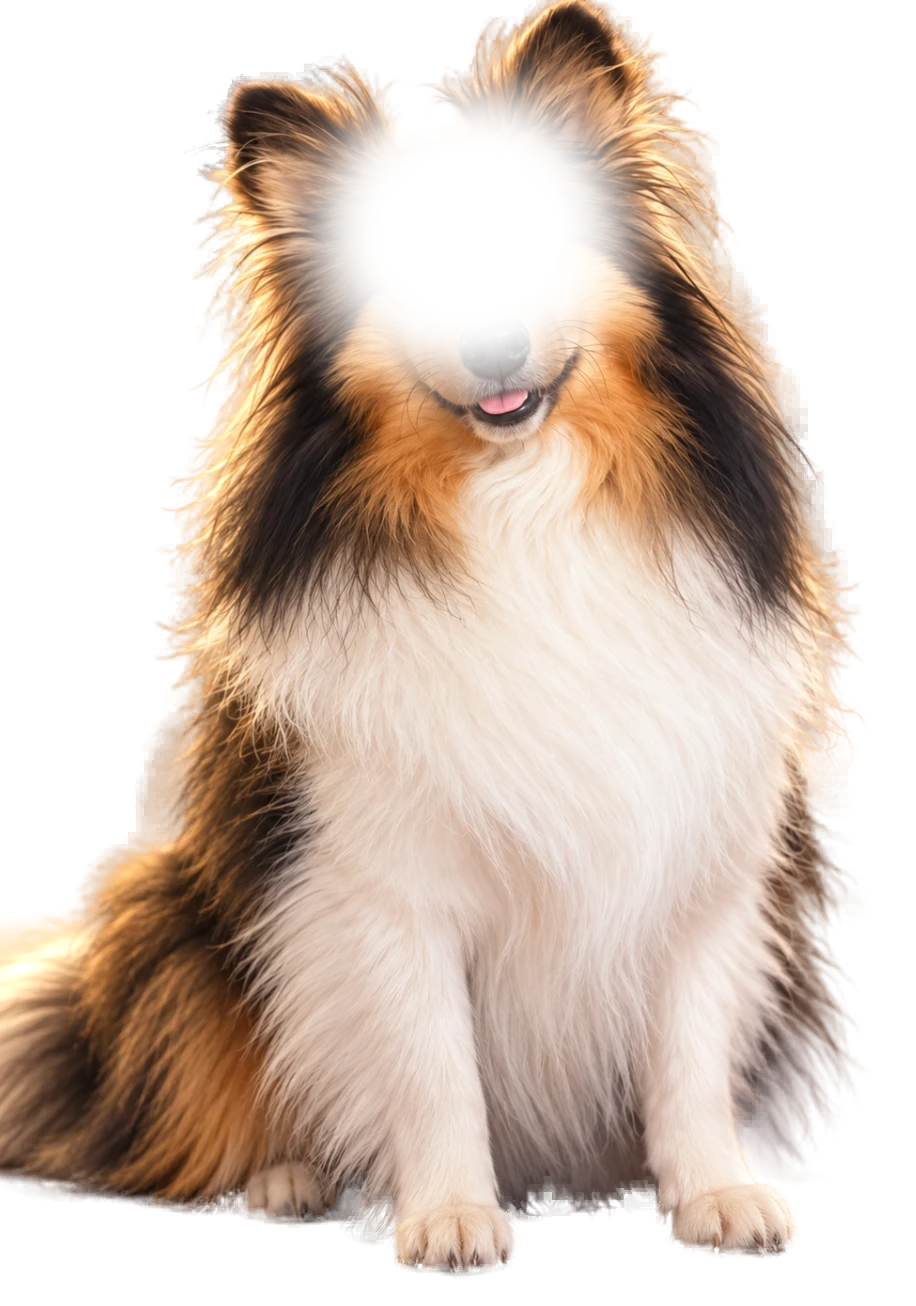
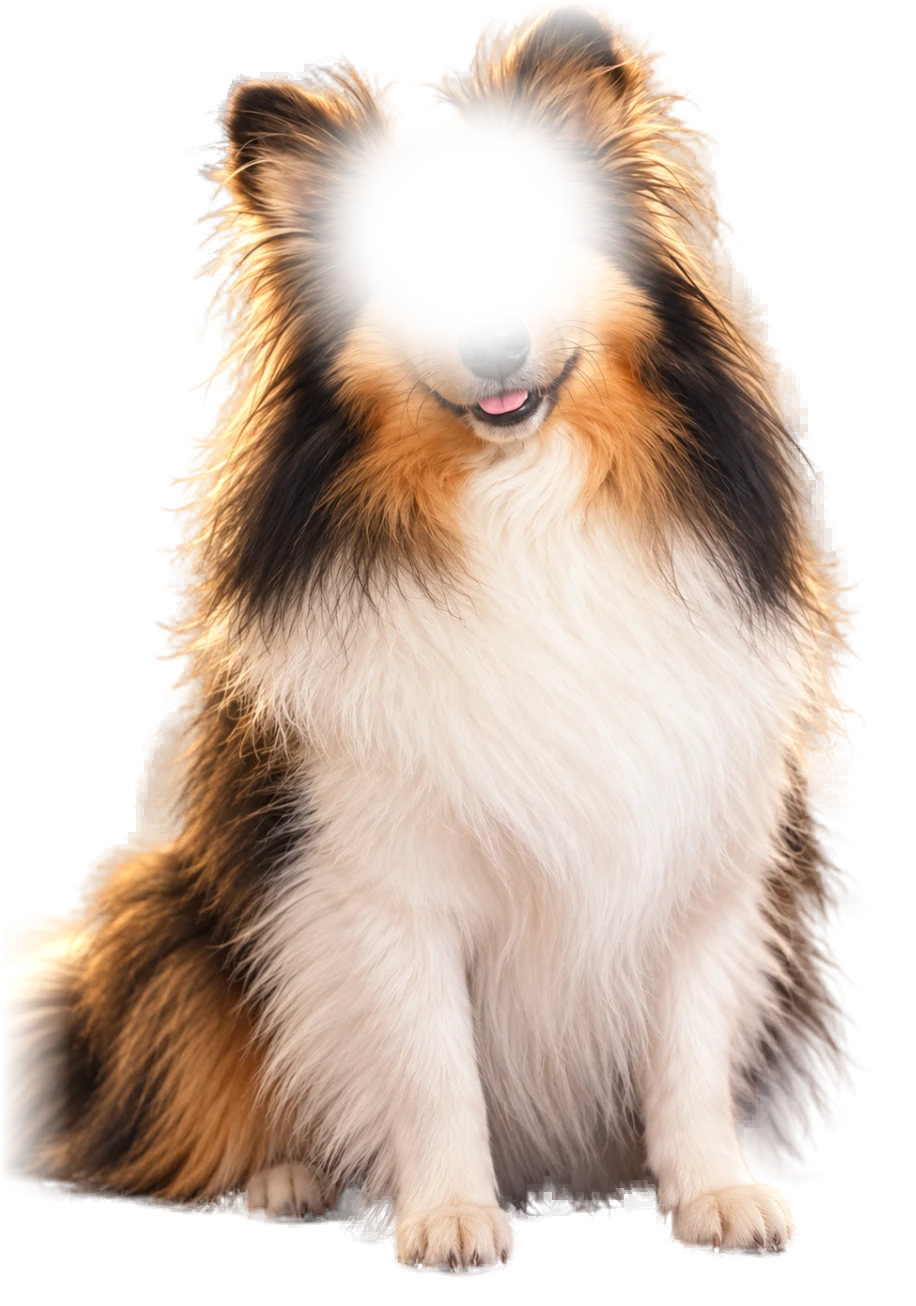
Fade cropped image edges and use photoreal Euro in the outro
Claude-Session: https://claude.ai/code/session_01MDugiyCcAT6wWFyRkZTm1D

Changed region(s): [[0.0, 0.7044, 0.0917, 0.9188], [0.5197, 0.0, 0.7031, 0.0613]]

diff --git a/dollar-euro/src/components/EpisodeOutro.tsx b/dollar-euro/src/components/EpisodeOutro.tsx
@@ -3,7 +3,8 @@ import { AbsoluteFill, interpolate, spring, useCurrentFrame, useVideoConfig } fr
 import { CHARACTERS } from "../config/characters";
 import { FONTS } from "../config/fonts";
 import { SAFE_ZONE } from "../config/video";
-import { DogRig, NEUTRAL_POSE } from "./character/DogRig";
+import { Character } from "./character/Character";
+import { NEUTRAL_POSE } from "./character/DogRig";
 
 // Pantalla final: logo, eslogan y avance del próximo capítulo.
 
@@ -64,19 +65,19 @@ export const EpisodeOutro: React.FC<{ nextNumber: number; nextTitle: string }> =
         <div style={{ fontFamily: FONTS.captions, fontWeight: 800, fontSize: 60, lineHeight: 1.1, color: "#2A160A", marginTop: 8 }}>{nextTitle}</div>
       </div>
 
-      {/* adelanto: Euro cachorro con una chancla */}
-      <div style={{ position: "absolute", left: 300, top: 1080, width: 330, height: 440, transform: `scale(${c})` }}>
-        <DogRig
-          uid="outro-euro"
-          pose={{ ...NEUTRAL_POSE, open: 0.35 + chew * 0.15, mouthShape: "wide", smile: 0.6, lid: 0.3, headTilt: chew * 6, tail: Math.sin(frame * 0.8) * 25 }}
-          palette={CHARACTERS.euro.palette}
-          markings={CHARACTERS.euro.markings}
-          collarColor={CHARACTERS.euro.collarColor}
-          tagLetter={CHARACTERS.euro.tagLetter}
+      {/* adelanto: Euro con una chancla (mordemos todo...) */}
+      <div style={{ position: "absolute", left: 300, top: 1040, width: 330, height: 440, transform: `scale(${c})` }}>
+        <Character
+          id="euro"
           puppy
-          style={{ width: "100%", height: "100%" }}
+          uidSuffix="-outro"
+          pose={{ ...NEUTRAL_POSE, open: 0.25 + chew * 0.12, mouthShape: "wide", smile: 0.6, headTilt: chew * 5, breath: 0.5 + 0.5 * Math.sin(frame * 0.2) }}
+          body={{ x: 0, y: 0, rot: 0, scale: 1 }}
+          width={330}
+          x={165}
+          y={440}
         />
-        <svg width={200} height={120} viewBox="0 0 200 120" style={{ position: "absolute", left: 120, top: 250, transform: `rotate(${-20 + chew * 8}deg)` }}>
+        <svg width={200} height={120} viewBox="0 0 200 120" style={{ position: "absolute", left: 78, top: 42, transform: `rotate(${-20 + chew * 8}deg) scale(0.8)` }}>
           <path d="M10,60 C10,20 60,10 110,20 C170,30 195,50 190,70 C185,95 120,100 60,95 C25,92 10,80 10,60 Z" fill="#3FA9FF" stroke="#0D4A80" strokeWidth={6} />
           <path d="M70,30 C90,60 110,60 130,30" stroke="#FFD23F" strokeWidth={10} fill="none" strokeLinecap="round" />
           <path d="M180,55 l8,-6 l4,10 l8,-4" stroke="#0D4A80" strokeWidth={4} fill="none" />

diff --git a/dollar-euro/scripts/prepare-photo-puppet.py b/dollar-euro/scripts/prepare-photo-puppet.py
@@ -54,11 +54,24 @@ def with_alpha(img: Image.Image, mask: Image.Image) -> Image.Image:
     return Image.fromarray(rgba.clip(0, 255).astype(np.uint8), "RGBA")
 
 
+def soften_frame_edges(img: Image.Image, width: int = 70) -> Image.Image:
+    """Donde la imagen original corta al perro (cola o grupa en el borde),
+    desvanece el pelo para que no quede un corte recto. El borde inferior
+    (patas en el suelo) se deja intacto."""
+    rgba = np.array(img).astype(np.float32)
+    h, w = rgba.shape[:2]
+    ramp = np.minimum(1.0, np.arange(width, dtype=np.float32) / width)
+    rgba[:, :width, 3] *= ramp[None, :]
+    rgba[:, w - width :, 3] *= ramp[::-1][None, :]
+    rgba[:width, :, 3] *= ramp[:, None]
+    return Image.fromarray(rgba.clip(0, 255).astype(np.uint8), "RGBA")
+
+
 def build(char_id: str):
     c = CONFIG[char_id]
     out = ROOT / "public/characters" / char_id
     out.mkdir(parents=True, exist_ok=True)
-    full = cutout(ROOT / c["source"])
+    full = soften_frame_edges(cutout(ROOT / c["source"]))
     size = full.size
     h = c["head"]
     # La cabeza lleva borde suave; el cuerpo pierde solo el núcleo opaco de
